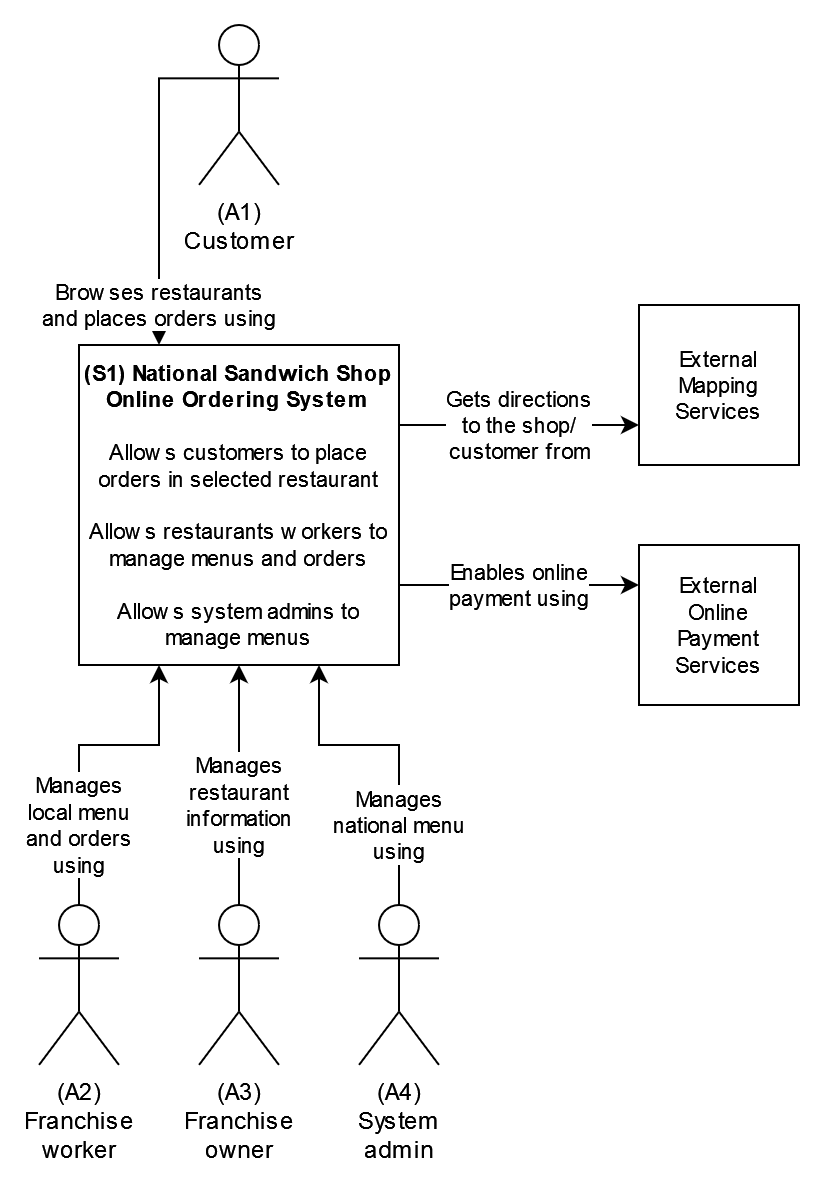
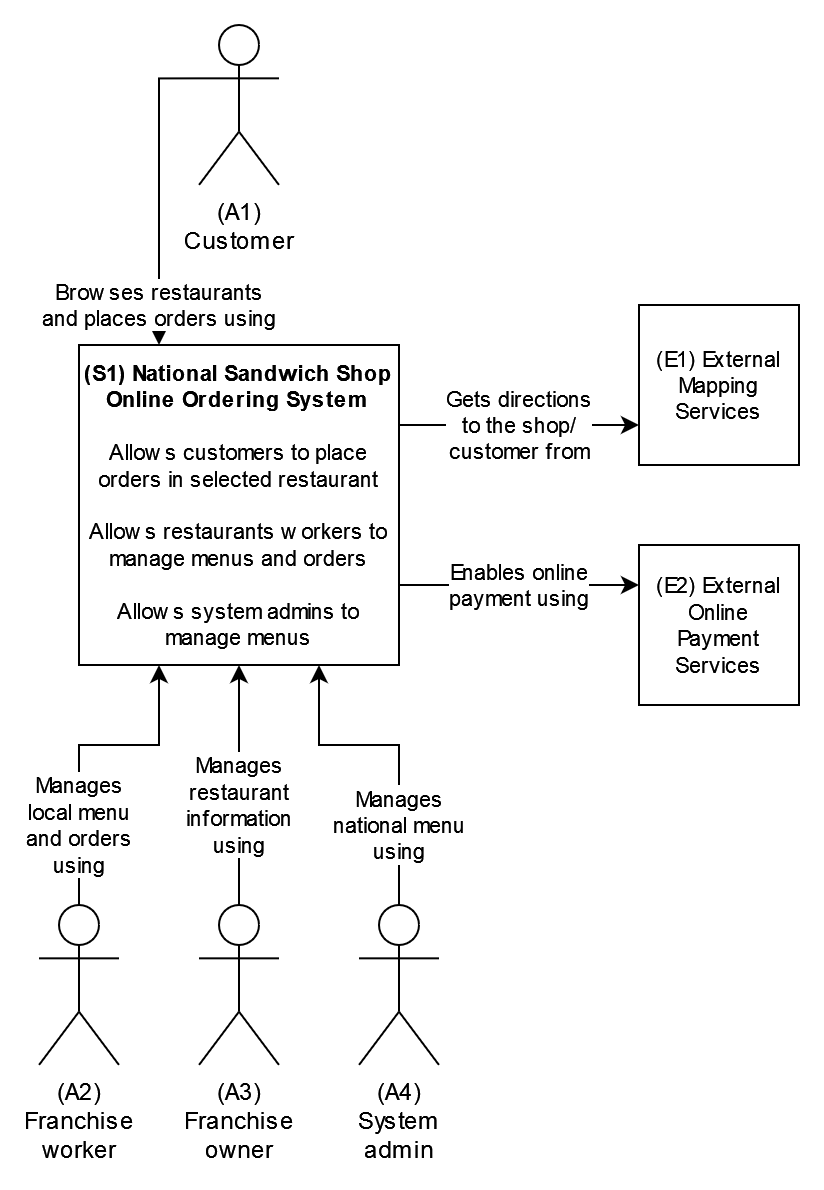
c3 half done

diff --git a/architecture.md b/architecture.md
@@ -75,7 +75,9 @@ Characteristics described below will be further referred to as (C1), (C2), (C3),
 ## System (C1)
 
 ### System diagram
-Systems included In this diagram will be further referred to as (S1), (S2), (S3), etc.
+Systems included in this diagram will be further referred to as (S1), (S2), (S3), etc.
+
+External systems included in this diagram will be further referred to as (E1), (E2), (E3), etc.
 
 ![System diagram](system-diagram-1.png)
 
@@ -119,7 +121,8 @@ Data stores included in this diagram will be further referred to as (DS1.1), (DS
 
 ## Components (C3)
 
-### Component diagram
+### Component diagram for (M1.1) Web application
+![Component diagram for (M1.1) Web application](component-diagram-1-1.png)
 
 ### Entity-relationship data model
 
@@ -128,10 +131,10 @@ Data stores included in this diagram will be further referred to as (DS1.1), (DS
 ##### RESTAURANTS
 | PK | FK | Name | Type |
 | --- | --- | --- | --- |
-| ✓ | | Id | Uuid |
-| | ✓ | LocationId | Uuid |
-| | ✓ | ContactId | Uuid |
-| | ✓ | MenuId | Uuid |
+| ✓ | | Id | uuid4 |
+| | ✓ | LocationId | uuid4 |
+| | ✓ | ContactId | uuid4 |
+| | ✓ | MenuId | uuid4 |
 | | | Name | varchar(255) |
 | | | Description | varchar(4096) |
 | | | Delivery | bit |
@@ -139,14 +142,14 @@ Data stores included in this diagram will be further referred to as (DS1.1), (DS
 ##### MENUS
 | PK | FK | Name | Type |
 | --- | --- | --- | --- |
-| ✓ | | Id | Uuid |
+| ✓ | | Id | uuid4 |
 | | | Name | varchar(255) |
 | | | Description | varchar(4096) |
 
 ##### MENU_ITEMS
 | PK | FK | Name | Type |
 | --- | --- | --- | --- |
-| ✓ | | Id | Uuid |
+| ✓ | | Id | uuid4 |
 | | | Name | varchar(255) |
 | | | Description | varchar(4096) |
 | | | Type | char(1) |
@@ -155,46 +158,46 @@ Data stores included in this diagram will be further referred to as (DS1.1), (DS
 ##### MENU_ITEMS_TO_MENUS
 | PK | FK | Name | Type |
 | --- | --- | --- | --- |
-| ✓ | | Id | Uuid |
-| | ✓ | MenuId | Uuid |
-| | ✓ | MenuItemId | Uuid |
+| ✓ | | Id | uuid4 |
+| | ✓ | MenuId | uuid4 |
+| | ✓ | MenuItemId | uuid4 |
 
 ##### PROMOTIONS
 | PK | FK | Name | Type |
 | --- | --- | --- | --- |
-| ✓ | | Id | Uuid |
+| ✓ | | Id | uuid4 |
 | | | Name | varchar(255) |
 | | | Description | varchar(4096) |
 
 ##### PROMOTIONS_TO_MENU_ITEMS
 | PK | FK | Name | Type |
 | --- | --- | --- | --- |
-| ✓ | | Id | Uuid |
-| | ✓ | PromotionId | Uuid |
-| | ✓ | MenuItemId | Uuid |
+| ✓ | | Id | uuid4 |
+| | ✓ | PromotionId | uuid4 |
+| | ✓ | MenuItemId | uuid4 |
 | | | NewPrice | integer(8) |
 
 ##### PROMOTIONS_TO_RESTAURANTS
 | PK | FK | Name | Type |
 | --- | --- | --- | --- |
-| ✓ | | Id | Uuid |
-| | ✓ | PromotionId | Uuid |
-| | ✓ | RestaurantId | Uuid |
+| ✓ | | Id | uuid4 |
+| | ✓ | PromotionId | uuid4 |
+| | ✓ | RestaurantId | uuid4 |
 
 #### (DS1.3) Users DB
 
 ##### USERS
 | PK | FK | Name | Type |
 | --- | --- | --- | --- |
-| ✓ | | Id | Uuid |
-| | ✓ | RoleId | Uuid |
+| ✓ | | Id | uuid4 |
+| | ✓ | RoleId | uuid4 |
 | | | Username | varchar(255) |
 | | | Password | varchar(255) |
 
 ##### ROLES
 | PK | FK | Name | Type |
 | --- | --- | --- | --- |
-| ✓ | | Id | Uuid |
+| ✓ | | Id | uuid4 |
 | | | Name | varchar(255) |
 | | | Description | varchar(4096) |
 | | | AccessLevel | integer(10) |
@@ -202,8 +205,8 @@ Data stores included in this diagram will be further referred to as (DS1.1), (DS
 ##### USER_ACTIONS_LOG
 | PK | FK | Name | Type |
 | --- | --- | --- | --- |
-| ✓ | | Id | Uuid |
-| | ✓ | UserId | Uuid |
+| ✓ | | Id | uuid4 |
+| | ✓ | UserId | uuid4 |
 | | | Action | varchar(255) |
 | | | Timestamp | timestamp |
 
@@ -212,9 +215,9 @@ Data stores included in this diagram will be further referred to as (DS1.1), (DS
 ##### ORDERS
 | PK | FK | Name | Type |
 | --- | --- | --- | --- |
-| ✓ | | Id | Uuid |
-| | ✓ | LocationId | Uuid |
-| | ✓ | ContactId | Uuid |
+| ✓ | | Id | uuid4 |
+| | ✓ | LocationId | uuid4 |
+| | ✓ | ContactId | uuid4 |
 | | | Comment | varchar(255) |
 | | | Price | integer(10) |
 | | | PaymentType | char(1) |
@@ -222,16 +225,16 @@ Data stores included in this diagram will be further referred to as (DS1.1), (DS
 ##### MENU_ITEMS_TO_ORDERS
 | PK | FK | Name | Type |
 | --- | --- | --- | --- |
-| ✓ | | Id | Uuid |
-| | ✓ | OrderId | Uuid |
-| | ✓ | MenuItemId | Uuid |
-| | ✓ | PromotionId | Uuid |
+| ✓ | | Id | uuid4 |
+| | ✓ | OrderId | uuid4 |
+| | ✓ | MenuItemId | uuid4 |
+| | ✓ | PromotionId | uuid4 |
 
 ##### ORDERS_UPDATES
 | PK | FK | Name | Type |
 | --- | --- | --- | --- |
-| ✓ | | Id | Uuid |
-| | ✓ | OrderId | Uuid |
+| ✓ | | Id | uuid4 |
+| | ✓ | OrderId | uuid4 |
 | | | Status | char(1) |
 | | | Comment | varchar(255) |
 | | | Timestamp | timestamp |
@@ -241,7 +244,7 @@ Data stores included in this diagram will be further referred to as (DS1.1), (DS
 ##### LOCATIONS
 | PK | FK | Name | Type |
 | --- | --- | --- | --- |
-| ✓ | | Id | Uuid |
+| ✓ | | Id | uuid4 |
 | | | CountryCode | char(3) |
 | | | CurrencyCode | char(3) |
 | | | Region | varchar(255) |
@@ -254,7 +257,7 @@ Data stores included in this diagram will be further referred to as (DS1.1), (DS
 ##### CONTACTS
 | PK | FK | Name | Type |
 | --- | --- | --- | --- |
-| ✓ | | Id | Uuid |
+| ✓ | | Id | uuid4 |
 | | | FirstName | varchar(255) |
 | | | LastName | varchar(255) |
 | | | PhoneNumber | numeric(12) |
@@ -262,6 +265,8 @@ Data stores included in this diagram will be further referred to as (DS1.1), (DS
 
 ## Decisions
 
-### (ADR1) Decision to treat "specials" as menu items of different type
+### (ADR1) Decision to use distributed, layered architecture
 
-### (ADR2) Decision to separate APIs and DSs into Restaurants, Users, Orders, and Contacts & Locations
+### (ADR2) Decision to treat "specials" as menu items of different type
+
+### (ADR3) Decision to separate APIs and DSs into Restaurants, Users, Orders, and Contacts & Locations
